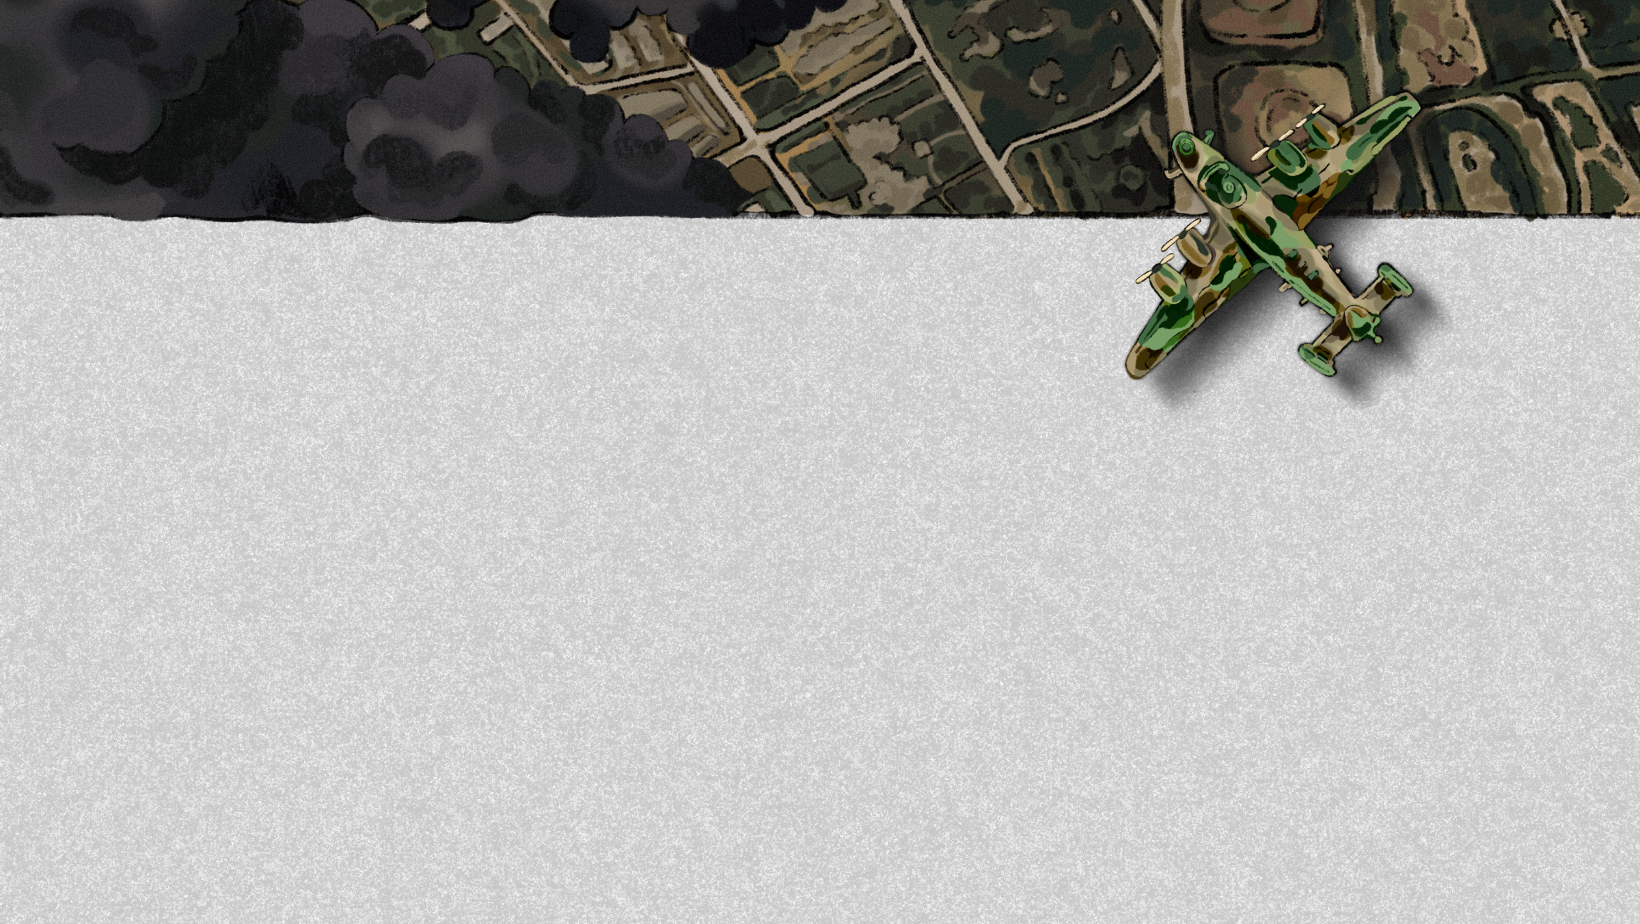
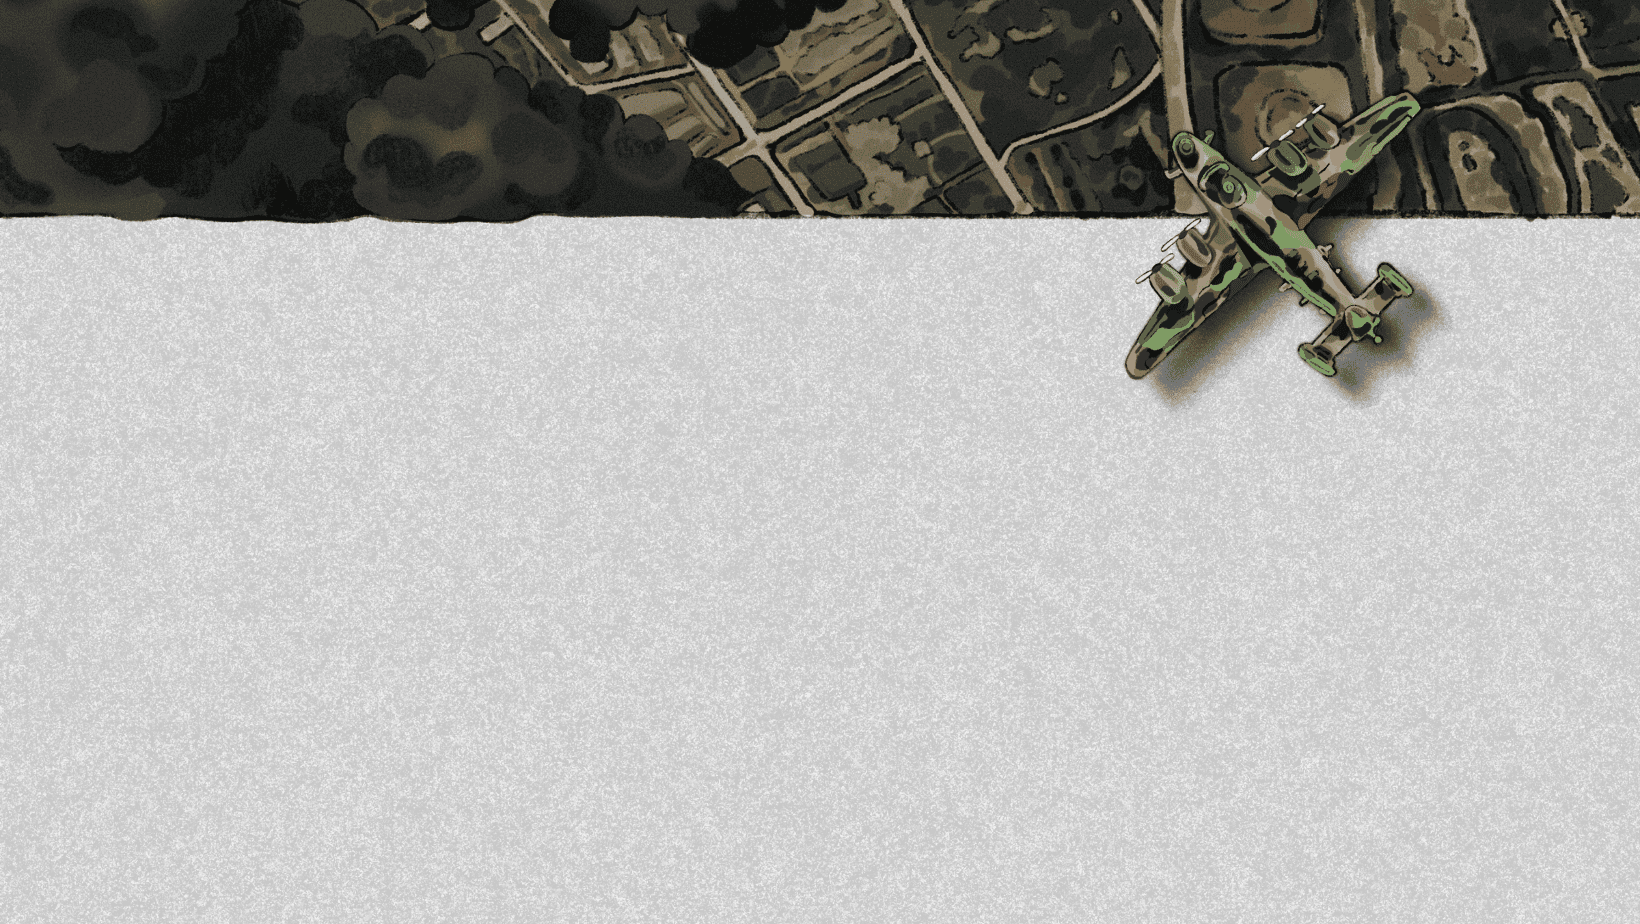
fix: detail header padding chore: compress images

Changed region(s): [[0.6841, 0.1212, 0.8707, 0.4242], [0.7774, 0.303, 0.8707, 0.4242]]

diff --git a/frontend/src/components/layer2/page2-2.js b/frontend/src/components/layer2/page2-2.js
@@ -1,55 +1,58 @@
 import "../../assets/styles/detail.css";
 
 import { Link } from "react-router-dom";
+import SocialBar from "../socialBar";
 // create a background and a container-fluid centered in the background
 const Page22 = () => {
-  return (
-    <div className="layer2bg">
-      <Link to="/">
-        <div className="homelink">
-          <i class="fa-solid fa-arrow-left-long" /> Back to List
-        </div>
-      </Link>
-      <div
-        // className="container-fluid d-flex flex-column justify-content-center align-items-center"
-        className="container"
-        // style={{ height: "100vh" }}
-      >
-        <div className="container-fluid d-flex justify-content-center" id="text">
-          <div className="col-8 mx-auto">
-            <div className="d-flex flex-column">
-              <h1>空襲底下的人民生活</h1>
-              <h2>- 走空襲：防空洞是第二個家</h2>
-              <p>
-                1944年空襲日漸頻繁的局勢下，總督府命令每戶人家都應自行挖掘防空洞，當空襲警報響起時，應立即前往防空洞避難。後期轟炸頻繁人民幾乎天天進入防空壕躲避空襲，空洞內陰暗潮濕的環境，容易滋生蚊蟲，環境極差。
-              </p>
-              <p>
-                戰爭末期的空襲使臺灣人每天都處於躲避的精神壓力和恐懼下，和生死離別的悲慘命運中。
-              </p>
-              <h2>- 「疎開」（そかい）：前往疎開地的生活</h2>
-              <p>
-                從1944年至終戰的期間轟炸日漸頻繁，當時城市內的日式房屋多為木造，為了避免轟炸延燒造成重大傷亡，總督府開始宣導民眾疏散至鄉間，當時稱之「疎開」（そかい）。
-              </p>
-              <p>
-                「疎開」是日語（そかい
-                sokai）的漢字寫法，在中文裡「疏」和「疎」音譯相同，疏開指戰爭時期避免傷亡的疏散避難行動，如戰時的「學童疏開」指學校內學生往郊區躲避，「工廠疏開」指將工廠搬移至安全的地方，「建築疏開」指為了避免空襲延燒而開闢防空空地。
-                「疎開」是日語（そかい
-                sokai）的漢字寫法，在中文裡「疏」和「疎」音譯相同，疏開指戰爭時期避免傷亡的疏散避難行動，如戰時的「學童疏開」指學校內學生往郊區躲避，「工廠疏開」指將工廠搬移至安全的地方，「建築疏開」指為了避免空襲延燒而開闢防空空地。「疎開」是日語（そかい
-                sokai）的漢字寫法，在中文裡「疏」和「疎」音譯相同，疏開指戰爭時期避免傷亡的疏散避難行動，如戰時的「學童疏開」指學校內學生往郊區躲避，「工廠疏開」指將工廠搬移至安全的地方，「建築疏開」指為了避免空襲延燒而開闢防空空地。「疎開」是日語（そかい
-                sokai）的漢字寫法，在中文裡「疏」和「疎」音譯相同，疏開指戰爭時期避免傷亡的疏散避難行動，如戰時的「學童疏開」指學校內學生往郊區躲避，「工廠疏開」指將工廠搬移至安全的地方，「建築疏開」指為了避免空襲延燒而開闢防空空地。「疎開」是日語（そかい
-                sokai）的漢字寫法，在中文裡「疏」和「疎」音譯相同，疏開指戰爭時期避免傷亡的疏散避難行動，如戰時的「學童疏開」指學校內學生往郊區躲避，「工廠疏開」指將工廠搬移至安全的地方，「建築疏開」指為了避免空襲延燒而開闢防空空地。「疎開」是日語（そかい
-                sokai）的漢字寫法，在中文裡「疏」和「疎」音譯相同，疏開指戰爭時期避免傷亡的疏散避難行動，如戰時的「學童疏開」指學校內學生往郊區躲避，「工廠疏開」指將工廠搬移至安全的地方，「建築疏開」指為了避免空襲延燒而開闢防空空地。「疎開」是日語（そかい
-                sokai）的漢字寫法，在中文裡「疏」和「疎」音譯相同，疏開指戰爭時期避免傷亡的疏散避難行動，如戰時的「學童疏開」指學校內學生往郊區躲避，「工廠疏開」指將工廠搬移至安全的地方，「建築疏開」指為了避免空襲延燒而開闢防空空地。「疎開」是日語（そかい
-                sokai）的漢字寫法，在中文裡「疏」和「疎」音譯相同，疏開指戰爭時期避免傷亡的疏散避難行動，如戰時的「學童疏開」指學校內學生往郊區躲避，「工廠疏開」指將工廠搬移至安全的地方，「建築疏開」指為了避免空襲延燒而開闢防空空地。「疎開」是日語（そかい
-                sokai）的漢字寫法，在中文裡「疏」和「疎」音譯相同，疏開指戰爭時期避免傷亡的疏散避難行動，如戰時的「學童疏開」指學校內學生往郊區躲避，「工廠疏開」指將工廠搬移至安全的地方，「建築疏開」指為了避免空襲延燒而開闢防空空地。「疎開」是日語（そかい
-                sokai）的漢字寫法，在中文裡「疏」和「疎」音譯相同，疏開指戰爭時期避免傷亡的疏散避難行動，如戰時的「學童疏開」指學校內學生往郊區躲避，「工廠疏開」指將工廠搬移至安全的地方，「建築疏開」指為了避免空襲延燒而開闢防空空地。
-              </p>
+    return (
+        <div className="background">
+            <div className="layer2bg">
+                <Link to="/">
+                    <div className="homelink">
+                        <i class="fa-solid fa-arrow-left-long" /> Back to List
+                    </div>
+                </Link>
+                <div>{SocialBar}</div>
+                <div className="container h-100">
+                    <div className=" h-25"></div>
+                    <div className=" h-75">
+                        <div className="col-8 mx-auto">
+                            <div className="d-flex flex-column text-black" id="text">
+                                <h1>空襲底下的人民生活</h1>
+                                <h2>- 走空襲：防空洞是第二個家</h2>
+                                <p>
+                                    1944年空襲日漸頻繁的局勢下，總督府命令每戶人家都應自行挖掘防空洞，當空襲警報響起時，應立即前往防空洞避難。後期轟炸頻繁人民幾乎天天進入防空壕躲避空襲，空洞內陰暗潮濕的環境，容易滋生蚊蟲，環境極差。
+                                </p>
+                                <p>
+                                    戰爭末期的空襲使臺灣人每天都處於躲避的精神壓力和恐懼下，和生死離別的悲慘命運中。
+                                </p>
+                                <h2>- 「疎開」（そかい）：前往疎開地的生活</h2>
+                                <p>
+                                    從1944年至終戰的期間轟炸日漸頻繁，當時城市內的日式房屋多為木造，為了避免轟炸延燒造成重大傷亡，總督府開始宣導民眾疏散至鄉間，當時稱之「疎開」（そかい）。
+                                </p>
+                                <p>
+                                    「疎開」是日語（そかい
+                                    sokai）的漢字寫法，在中文裡「疏」和「疎」音譯相同，疏開指戰爭時期避免傷亡的疏散避難行動，如戰時的「學童疏開」指學校內學生往郊區躲避，「工廠疏開」指將工廠搬移至安全的地方，「建築疏開」指為了避免空襲延燒而開闢防空空地。
+                                    「疎開」是日語（そかい
+                                    sokai）的漢字寫法，在中文裡「疏」和「疎」音譯相同，疏開指戰爭時期避免傷亡的疏散避難行動，如戰時的「學童疏開」指學校內學生往郊區躲避，「工廠疏開」指將工廠搬移至安全的地方，「建築疏開」指為了避免空襲延燒而開闢防空空地。「疎開」是日語（そかい
+                                    sokai）的漢字寫法，在中文裡「疏」和「疎」音譯相同，疏開指戰爭時期避免傷亡的疏散避難行動，如戰時的「學童疏開」指學校內學生往郊區躲避，「工廠疏開」指將工廠搬移至安全的地方，「建築疏開」指為了避免空襲延燒而開闢防空空地。「疎開」是日語（そかい
+                                    sokai）的漢字寫法，在中文裡「疏」和「疎」音譯相同，疏開指戰爭時期避免傷亡的疏散避難行動，如戰時的「學童疏開」指學校內學生往郊區躲避，「工廠疏開」指將工廠搬移至安全的地方，「建築疏開」指為了避免空襲延燒而開闢防空空地。「疎開」是日語（そかい
+                                    sokai）的漢字寫法，在中文裡「疏」和「疎」音譯相同，疏開指戰爭時期避免傷亡的疏散避難行動，如戰時的「學童疏開」指學校內學生往郊區躲避，「工廠疏開」指將工廠搬移至安全的地方，「建築疏開」指為了避免空襲延燒而開闢防空空地。「疎開」是日語（そかい
+                                    sokai）的漢字寫法，在中文裡「疏」和「疎」音譯相同，疏開指戰爭時期避免傷亡的疏散避難行動，如戰時的「學童疏開」指學校內學生往郊區躲避，「工廠疏開」指將工廠搬移至安全的地方，「建築疏開」指為了避免空襲延燒而開闢防空空地。「疎開」是日語（そかい
+                                    sokai）的漢字寫法，在中文裡「疏」和「疎」音譯相同，疏開指戰爭時期避免傷亡的疏散避難行動，如戰時的「學童疏開」指學校內學生往郊區躲避，「工廠疏開」指將工廠搬移至安全的地方，「建築疏開」指為了避免空襲延燒而開闢防空空地。「疎開」是日語（そかい
+                                    sokai）的漢字寫法，在中文裡「疏」和「疎」音譯相同，疏開指戰爭時期避免傷亡的疏散避難行動，如戰時的「學童疏開」指學校內學生往郊區躲避，「工廠疏開」指將工廠搬移至安全的地方，「建築疏開」指為了避免空襲延燒而開闢防空空地。「疎開」是日語（そかい
+                                    sokai）的漢字寫法，在中文裡「疏」和「疎」音譯相同，疏開指戰爭時期避免傷亡的疏散避難行動，如戰時的「學童疏開」指學校內學生往郊區躲避，「工廠疏開」指將工廠搬移至安全的地方，「建築疏開」指為了避免空襲延燒而開闢防空空地。「疎開」是日語（そかい
+                                    sokai）的漢字寫法，在中文裡「疏」和「疎」音譯相同，疏開指戰爭時期避免傷亡的疏散避難行動，如戰時的「學童疏開」指學校內學生往郊區躲避，「工廠疏開」指將工廠搬移至安全的地方，「建築疏開」指為了避免空襲延燒而開闢防空空地。
+                                </p>
+                            </div>
+                        </div>
+
+                    </div>
+                </div>
             </div>
-          </div>
+
         </div>
-      </div>
-    </div>
-  );
+    );
 };
 
 export default Page22;

diff --git a/frontend/src/assets/styles/detail.css b/frontend/src/assets/styles/detail.css
@@ -1,11 +1,11 @@
 .layer2bg {
-    background-image: url("../images/layer2_bg1.png");
+    background-image: url("../images/layer2_bg.png");
     background-repeat: no-repeat;
     background-size: cover;
     height: 100vh;
     width: 100vw;
+    z-index: 0;
     position: absolute;
-    overflow: auto;
 }
 
 .homelink {
@@ -30,4 +30,6 @@ h2 {
 
 #text {
     margin-top: 10em;
+    font-family: 'nstc';
+    color: 'black';
 }
